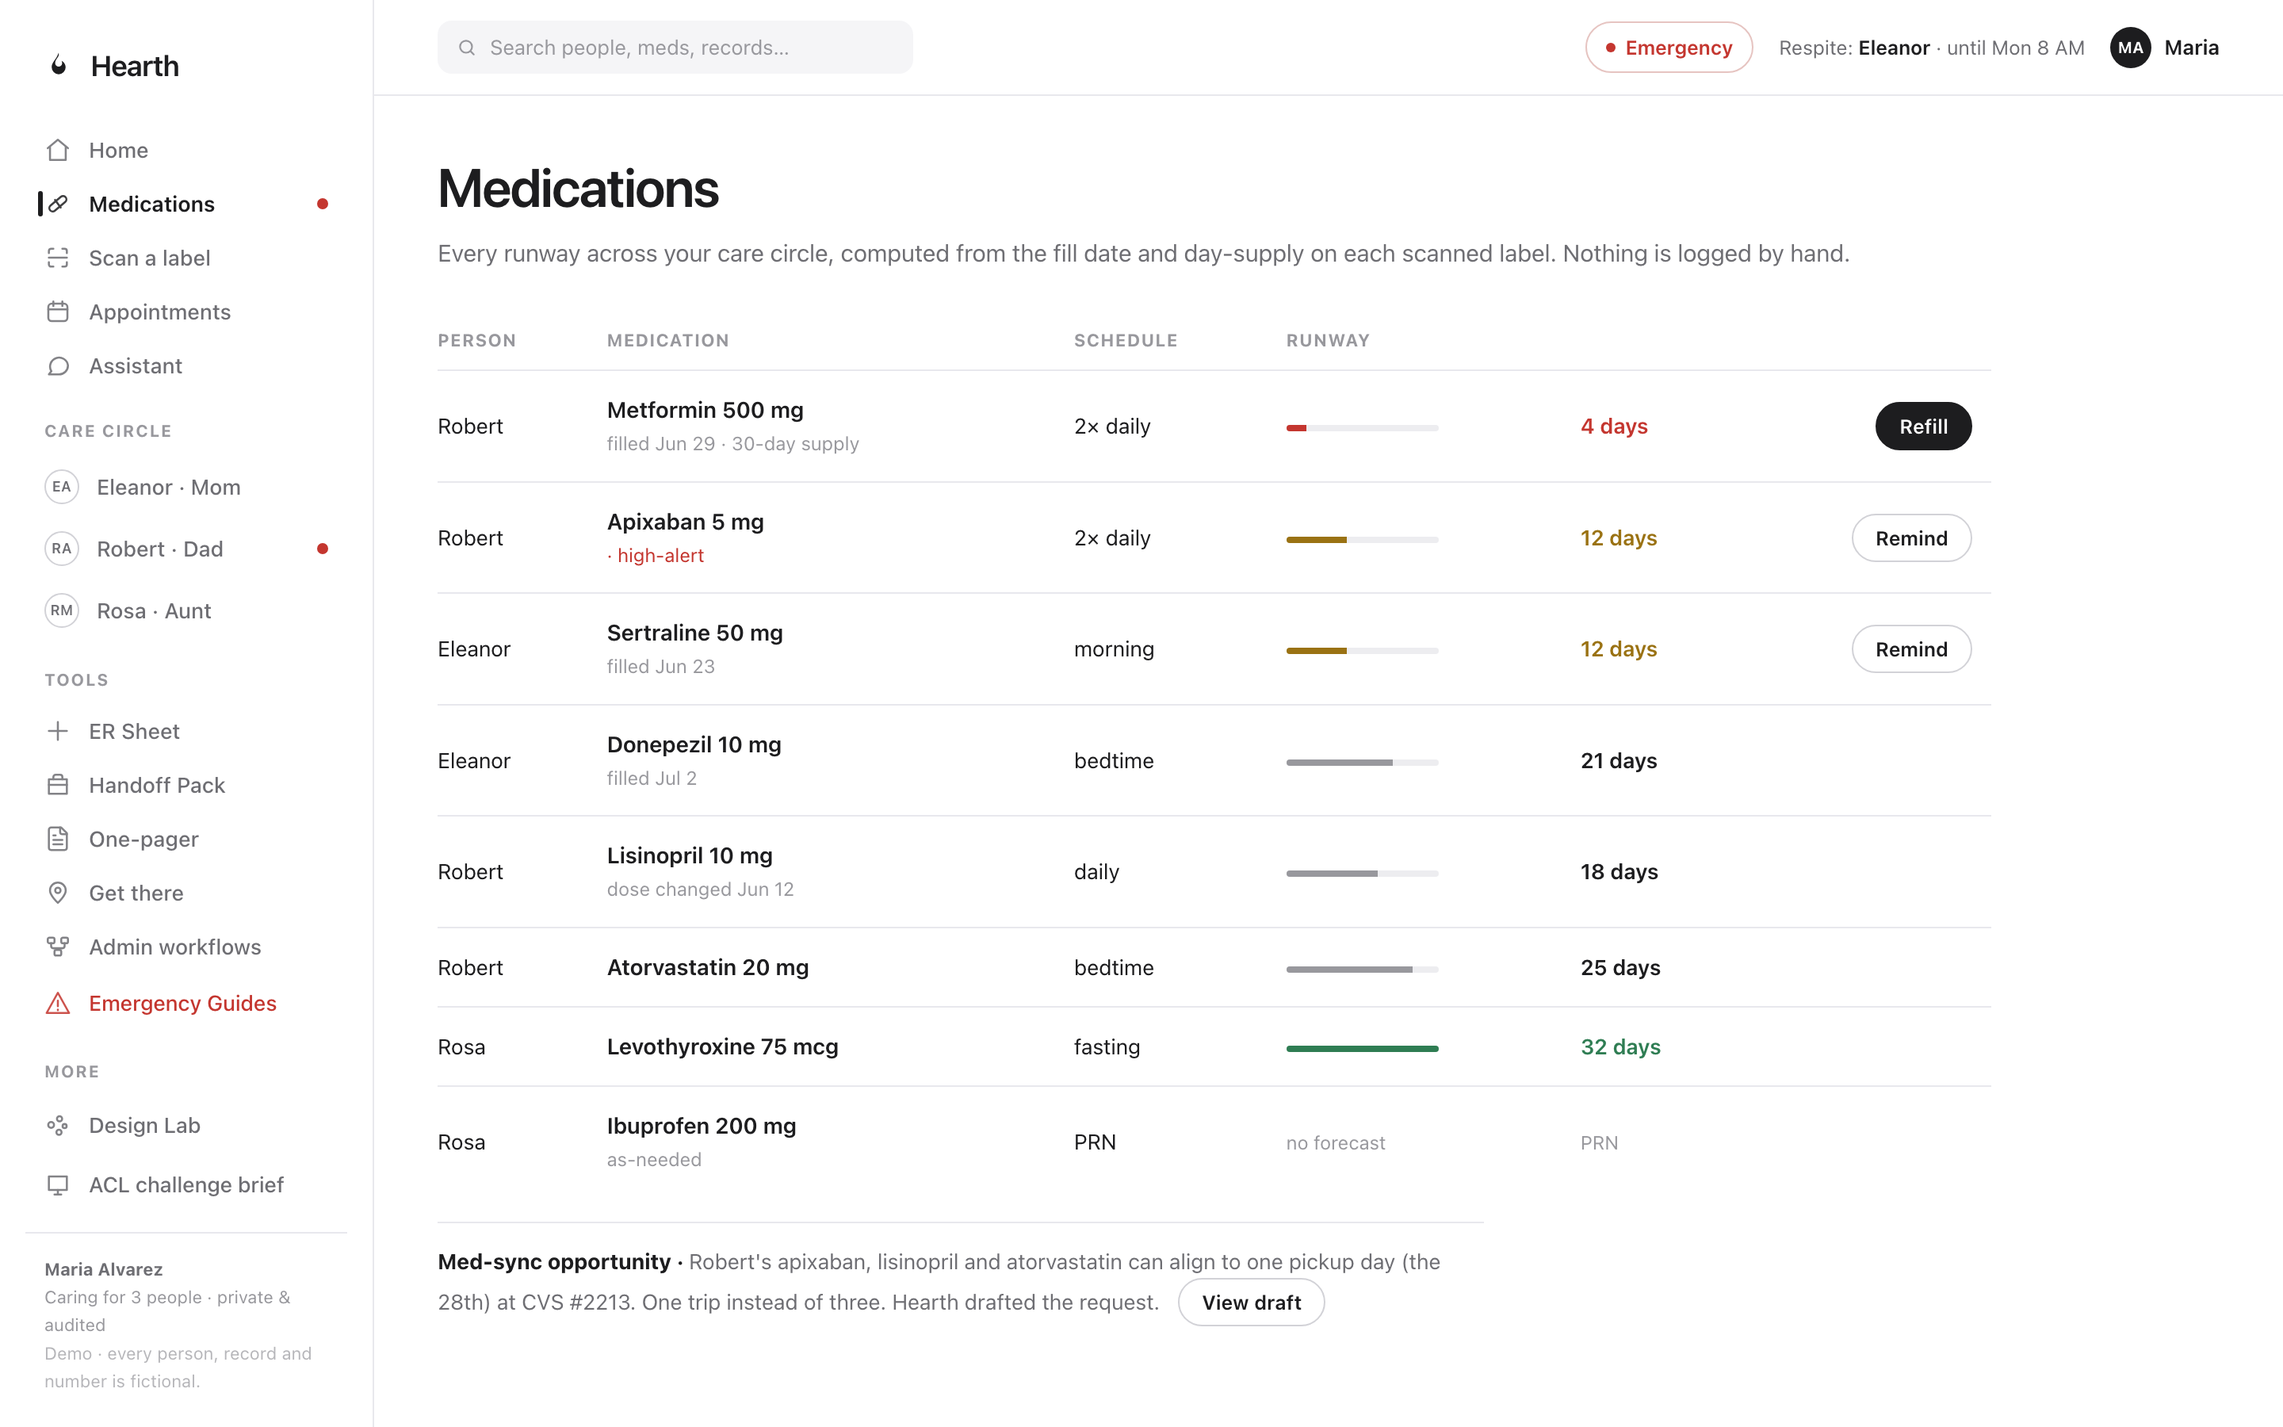
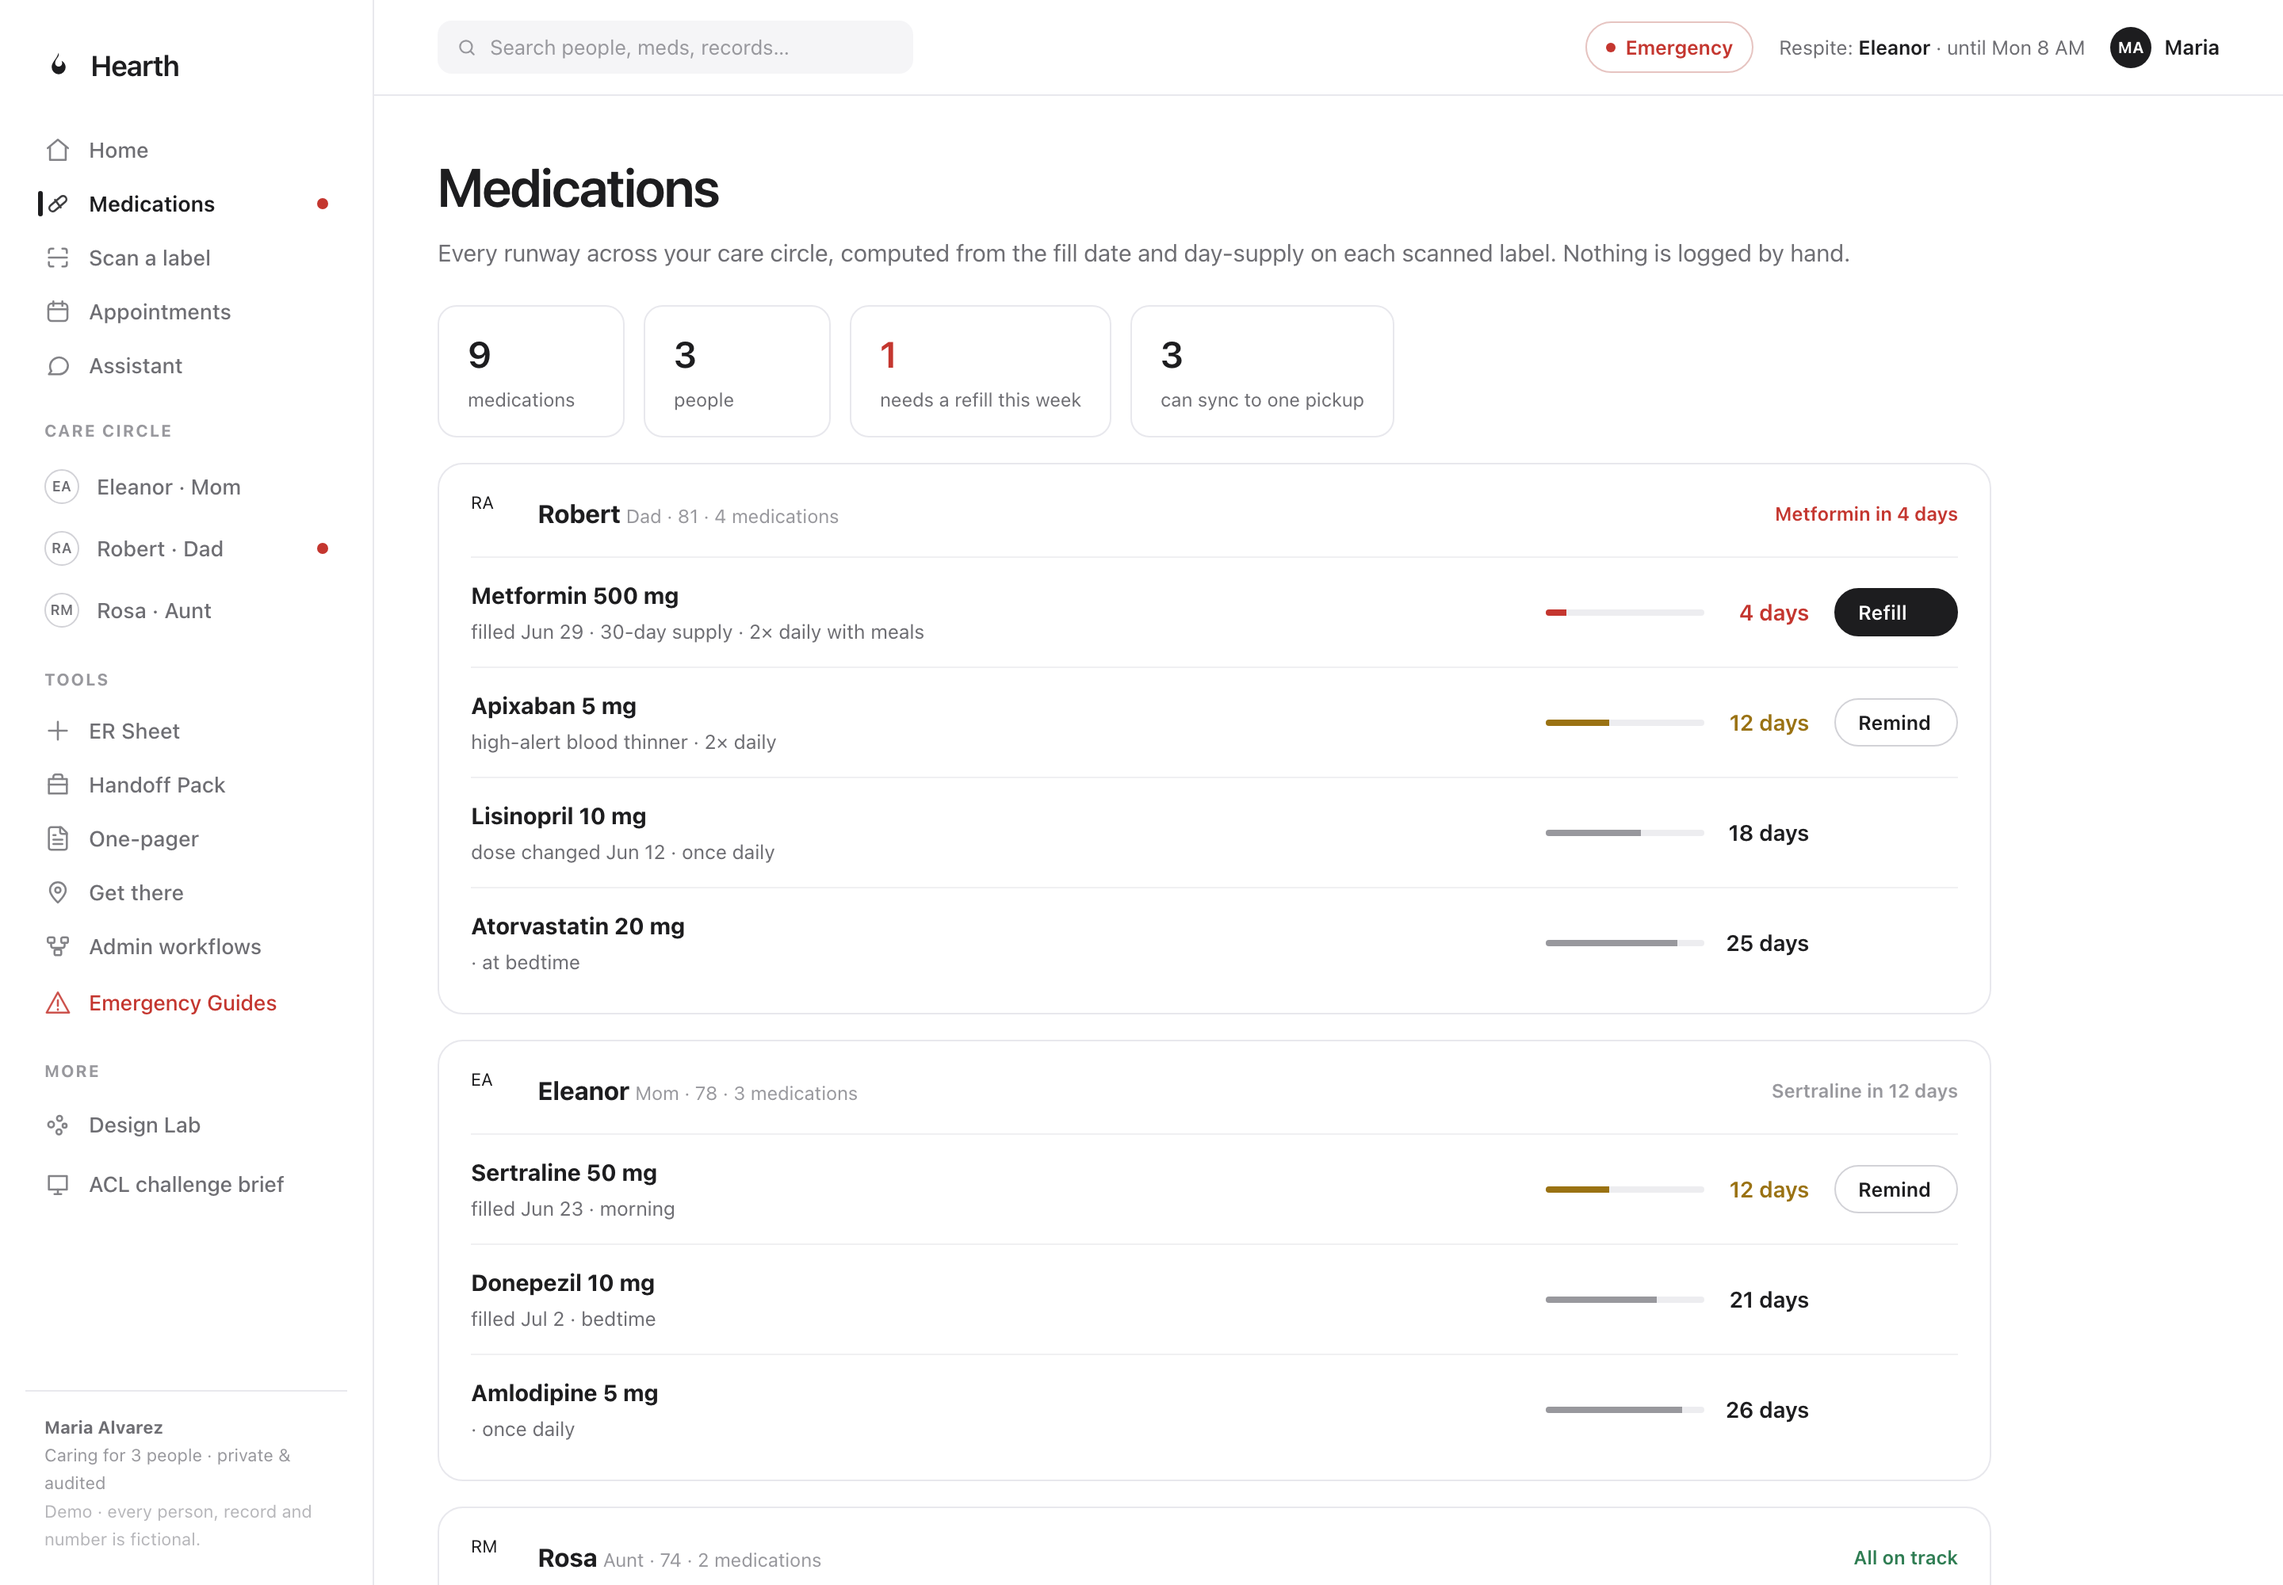
Get there: concise route meta (no overflow); Medications page redesigned - grouped by person with a summary strip and clean runway rows

diff --git a/index.html b/index.html
@@ -402,6 +402,32 @@ table.tbl tr:last-child td{border-bottom:none}
 #opBody .lrow{padding:8px 0;font-size:13px}
 #opBody .needs td,#opBody .needs th{padding:8px 12px}
 #opBody .erband{margin:6px 0 10px}
+
+/* keep section meta from overflowing */
+.seclabel{overflow:hidden}
+.seclabel .m{min-width:0;overflow:hidden;text-overflow:ellipsis;white-space:nowrap}
+main{overflow-x:hidden}
+/* medications, grouped and friendly */
+.medsum{display:flex;gap:12px;flex-wrap:wrap;margin:22px 0 4px}
+.ms{border:1px solid var(--line);border-radius:12px;padding:13px 18px;min-width:118px}
+.ms b{font-size:23px;font-weight:600;letter-spacing:-.02em;display:block}
+.ms span{font-size:12px;color:var(--ink2)}
+.ms.red b{color:var(--red)}
+.medgroup{border:1px solid var(--line);border-radius:16px;padding:16px 20px 10px;margin-top:16px}
+.mgh{display:flex;align-items:center;gap:12px;padding-bottom:12px;border-bottom:1px solid var(--line2)}
+.mgh .av{width:30px;height:30px;font-size:11px}
+.mgh b{font-size:16px}
+.mgh .mgflag{margin-left:auto;font-size:12px;font-weight:600;color:var(--ink3)}
+.mgh .mgflag.red{color:var(--red)}.mgh .mgflag.green{color:var(--green)}
+.mrow{display:flex;align-items:center;gap:16px;padding:13px 0;border-bottom:1px solid var(--line2)}
+.mrow:last-child{border-bottom:none}
+.mi2{flex:1;min-width:0}
+.mi2 b{font-size:14.5px}
+.mi2 span{display:block;font-size:12.5px;color:var(--ink2);margin-top:2px}
+.mrun{display:flex;align-items:center;gap:12px;flex:0 0 auto}
+.mrun .rway{width:100px}
+.mrun .days{min-width:54px;text-align:right}
+.mrow .btn{flex:0 0 auto;width:78px}
 </style>
 </head>
 <body>
@@ -632,18 +658,16 @@ table.tbl tr:last-child td{border-bottom:none}
   <section class="view" id="v-meds">
     <h1 class="greet" style="font-size:34px">Medications</h1>
     <p class="subline" style="font-size:15px">Every runway across your care circle, computed from the fill date and day-supply on each scanned label. Nothing is logged by hand.</p>
-    <table class="tbl" style="margin-top:26px">
-      <tr><th>Person</th><th>Medication</th><th>Schedule</th><th>Runway</th><th></th><th></th></tr>
-      <tr><td>Robert</td><td class="mname"><b>Metformin 500 mg</b><span>filled Jun 29 · 30-day supply</span></td><td>2× daily</td><td><span class="rway"><i class="red" style="width:13%"></i></span></td><td><span class="days red">4 days</span></td><td style="text-align:right"><button class="btn dark sm">Refill</button></td></tr>
-      <tr><td>Robert</td><td class="mname"><b>Apixaban 5 mg</b> <span style="color:var(--red)">· high-alert</span></td><td>2× daily</td><td><span class="rway"><i class="amber" style="width:40%"></i></span></td><td><span class="days amber">12 days</span></td><td style="text-align:right"><button class="btn sm">Remind</button></td></tr>
-      <tr><td>Eleanor</td><td class="mname"><b>Sertraline 50 mg</b><span>filled Jun 23</span></td><td>morning</td><td><span class="rway"><i class="amber" style="width:40%"></i></span></td><td><span class="days amber">12 days</span></td><td style="text-align:right"><button class="btn sm">Remind</button></td></tr>
-      <tr><td>Eleanor</td><td class="mname"><b>Donepezil 10 mg</b><span>filled Jul 2</span></td><td>bedtime</td><td><span class="rway"><i style="width:70%"></i></span></td><td><span class="days">21 days</span></td><td></td></tr>
-      <tr><td>Robert</td><td class="mname"><b>Lisinopril 10 mg</b><span>dose changed Jun 12</span></td><td>daily</td><td><span class="rway"><i style="width:60%"></i></span></td><td><span class="days">18 days</span></td><td></td></tr>
-      <tr><td>Robert</td><td class="mname"><b>Atorvastatin 20 mg</b></td><td>bedtime</td><td><span class="rway"><i style="width:83%"></i></span></td><td><span class="days">25 days</span></td><td></td></tr>
-      <tr><td>Rosa</td><td class="mname"><b>Levothyroxine 75 mcg</b></td><td>fasting</td><td><span class="rway"><i class="green" style="width:100%"></i></span></td><td><span class="days green">32 days</span></td><td></td></tr>
-      <tr><td>Rosa</td><td class="mname"><b>Ibuprofen 200 mg</b><span>as-needed</span></td><td>PRN</td><td><span class="mini">no forecast</span></td><td><span class="mini">PRN</span></td><td></td></tr>
-    </table>
-    <div class="note"><b style="color:var(--ink)">Med-sync opportunity  · </b> Robert's apixaban, lisinopril and atorvastatin can align to one pickup day (the 28th) at CVS #2213. One trip instead of three. Hearth drafted the request. <button class="btn sm" style="margin-left:8px">View draft</button></div>
+    <div class="medsum">
+      <div class="ms"><b>9</b><span>medications</span></div>
+      <div class="ms"><b>3</b><span>people</span></div>
+      <div class="ms red"><b>1</b><span>needs a refill this week</span></div>
+      <div class="ms"><b>3</b><span>can sync to one pickup</span></div>
+    </div>
+    <div class="medgroup"><div class="mgh"><span class="av">RA</span><div><b>Robert</b> <span class="mini">Dad · 81 · 4 medications</span></div><span class="mgflag red">Metformin in 4 days</span></div><div class="mrow"><div class="mi2"><b>Metformin 500 mg</b><span>filled Jun 29 · 30-day supply · 2× daily with meals</span></div><div class="mrun"><span class="rway"><i class="red" style="width:13%"></i></span><span class="days red">4 days</span></div><button class="btn dark sm">Refill</button></div><div class="mrow"><div class="mi2"><b>Apixaban 5 mg</b><span>high-alert blood thinner · 2× daily</span></div><div class="mrun"><span class="rway"><i class="amber" style="width:40%"></i></span><span class="days amber">12 days</span></div><button class="btn sm">Remind</button></div><div class="mrow"><div class="mi2"><b>Lisinopril 10 mg</b><span>dose changed Jun 12 · once daily</span></div><div class="mrun"><span class="rway"><i class="" style="width:60%"></i></span><span class="days ">18 days</span></div><span style="width:78px"></span></div><div class="mrow"><div class="mi2"><b>Atorvastatin 20 mg</b><span> · at bedtime</span></div><div class="mrun"><span class="rway"><i class="" style="width:83%"></i></span><span class="days ">25 days</span></div><span style="width:78px"></span></div></div>
+    <div class="medgroup"><div class="mgh"><span class="av">EA</span><div><b>Eleanor</b> <span class="mini">Mom · 78 · 3 medications</span></div><span class="mgflag">Sertraline in 12 days</span></div><div class="mrow"><div class="mi2"><b>Sertraline 50 mg</b><span>filled Jun 23 · morning</span></div><div class="mrun"><span class="rway"><i class="amber" style="width:40%"></i></span><span class="days amber">12 days</span></div><button class="btn sm">Remind</button></div><div class="mrow"><div class="mi2"><b>Donepezil 10 mg</b><span>filled Jul 2 · bedtime</span></div><div class="mrun"><span class="rway"><i class="" style="width:70%"></i></span><span class="days ">21 days</span></div><span style="width:78px"></span></div><div class="mrow"><div class="mi2"><b>Amlodipine 5 mg</b><span> · once daily</span></div><div class="mrun"><span class="rway"><i class="" style="width:86%"></i></span><span class="days ">26 days</span></div><span style="width:78px"></span></div></div>
+    <div class="medgroup"><div class="mgh"><span class="av">RM</span><div><b>Rosa</b> <span class="mini">Aunt · 74 · 2 medications</span></div><span class="mgflag green">All on track</span></div><div class="mrow"><div class="mi2"><b>Levothyroxine 75 mcg</b><span> · fasting</span></div><div class="mrun"><span class="rway"><i class="green" style="width:100%"></i></span><span class="days green">32 days</span></div><span style="width:78px"></span></div><div class="mrow"><div class="mi2"><b>Ibuprofen 200 mg</b><span>as needed · PRN</span></div><div class="mrun"><span class="mini">no forecast</span><span class="days mini">PRN</span></div><span style="width:78px"></span></div></div>
+    <div class="note"><b style="color:var(--ink)">Med-sync opportunity:</b> Robert's apixaban, lisinopril and atorvastatin can align to one pickup day (the 28th) at CVS #2213. One trip instead of three. Hearth drafted the request. <button class="btn sm" style="margin-left:8px">View draft</button></div>
   </section>
 
   <!-- ========== SCAN ========== -->
@@ -1083,7 +1107,7 @@ function renderTransport(i){
   return '<div class="pchip'+(idx===i?' on':'')+'" data-tpi="'+idx+'"><span class="av">'+(r.patient||'?').charAt(0)+'</span><b>'+(r.patient||'')+'</b><span class="sm">'+(r.toLabel||'')+'</span></div>';
  }).join('');
  var r=TPDATA.routes[i];
- document.getElementById('tMeta').textContent=[r.distance,'from '+(r.fromLabel||'your location')].filter(Boolean).join(' · ');
+ document.getElementById('tMeta').textContent=(r.distance||'')+' · from your current location';
  document.getElementById('tMap').innerHTML=tMapSVG()+'<div class="maptag"><b>'+(r.fromLabel||'You')+'</b> to <b>'+(r.toLabel||r.patient)+'</b></div>';
  document.getElementById('tRoutes').innerHTML=(r.options||[]).map(function(o){
   var tag=o.safety?'<span class="rtag '+tTag(o.safety)+'">'+o.safety+'</span>':'';
